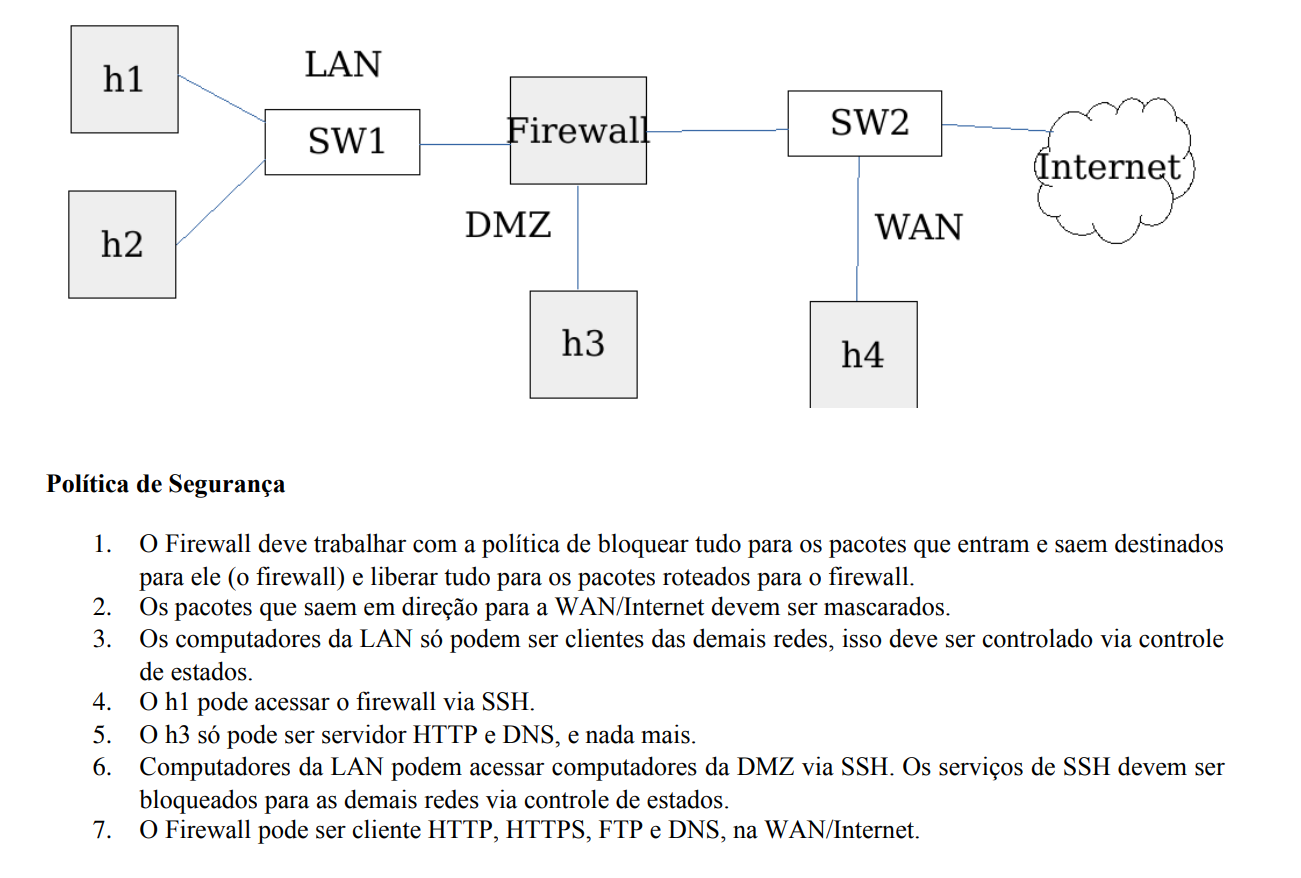
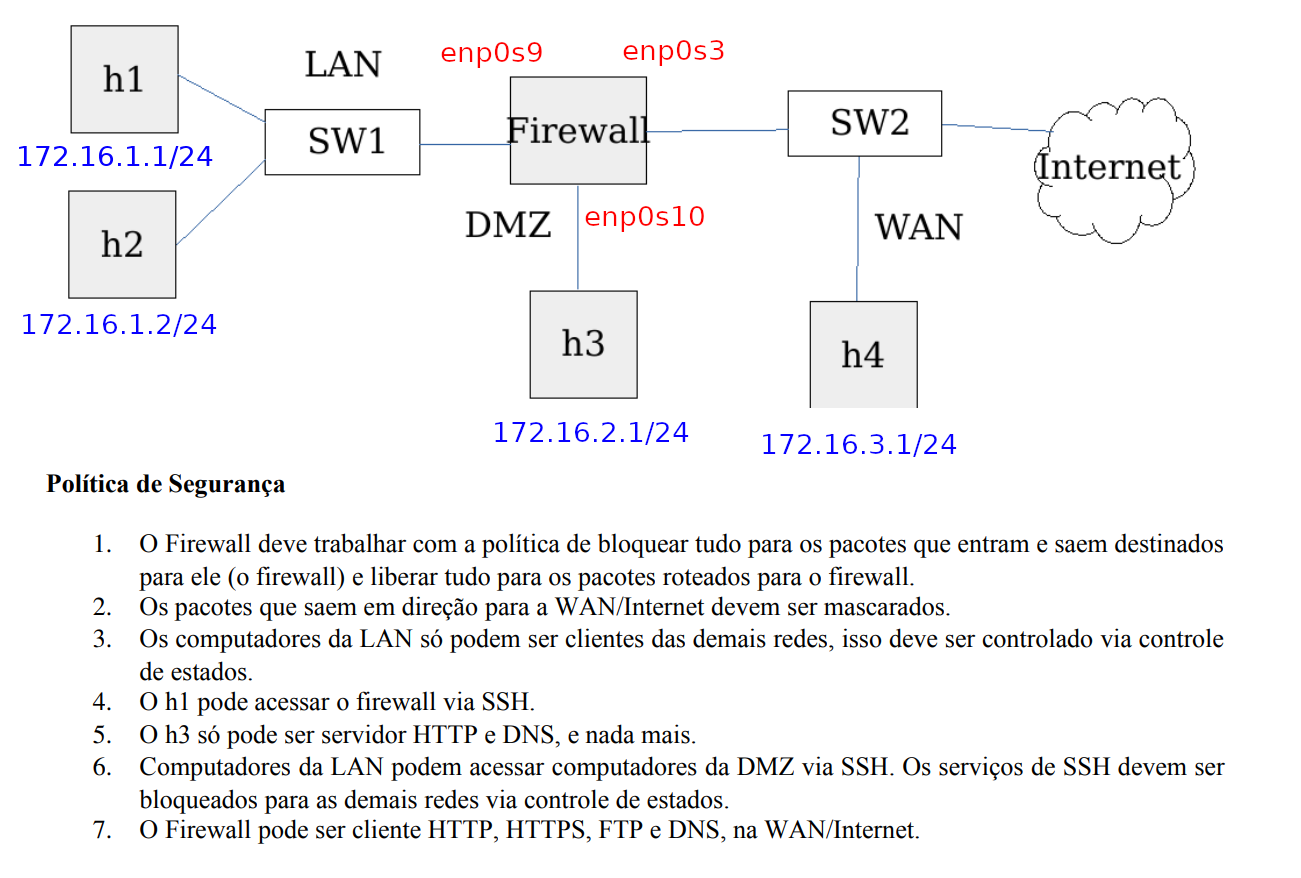
readme

diff --git a/README.md b/README.md
@@ -39,7 +39,7 @@ Para poupar trabalho, iremos clonar essa primeira maquina virtual 4 vezes, se at
 Terminadas as clonagens, renomeie as VM's para: host1a, host1b, host2a, host3a e Firewall. Em seguida, iremos ativar as interfaces de rede do nós (tal qual na Figura 2), nas VM's LAN (host1a, host1b) e DMZ (host2a) habilite uma placa de rede interna, na VM da WAN (host3a) habilite uma placa de rede interna e uma placa de rede NAT, na VM do Firewall habilite três placas de rede interna.
 
 Nas máquinas da LAN (host1a e host1b), o nome associada a placa de rede será intnet1, na máquina da DMZ (host2a) o nome será intnet2, na placa de rede interna da WAN (host3a) o nome será intnet3, por fim, na VM do Firewall nomeie a primeira placa de rede interna com a intnet1, a segunda com intnet2 e a terceira com a intnet3. A tabela 1 apresenta as redes internas das VM's. 
-
+<div align="center">
 | VM        | Redes Internas | 
 | ------------- |:-------------:| 
 | host1a (LAN)        | intnet1 |
@@ -47,8 +47,10 @@ Nas máquinas da LAN (host1a e host1b), o nome associada a placa de rede será i
 | host2a (DMZ) | intnet2      |
 | host3a (WAN) | intnet3, NAT |
 | Firewall | intnet1, intnet2, intnet3 |    
+</div>
  <p align="center">Tabela 1 - Placas de rede </p>
 
+#Configuração das redes nas VM's
 
 
 
